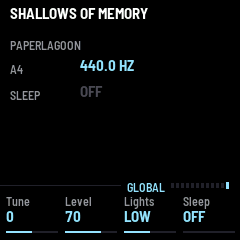
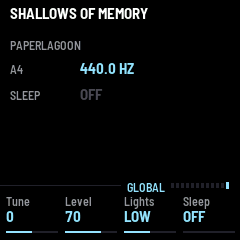
ヘッダーと GLO でも、大小の字のベースラインを揃える

Changed region(s): [[0.3208, 0.2333, 0.5542, 0.3208], [0.3208, 0.35, 0.4375, 0.4375]]

diff --git a/app/app.c b/app/app.c
@@ -717,7 +717,7 @@ static void draw_header(uint32_t now)
         cv_text(x + 8, y, big ? &FONT_B : &FONT_XS, ui.msg[1], C_HI);
     } else if (en_recording) {
         end = cv_text(10, 6, &FONT_B, "REC", C_WHITE);
-        cv_text(end + 8, 10, &FONT_XS, "THE KEYS PLAY; LET GO TO GIVE IT", C_AMB);
+        cv_text(end + 8, 7, &FONT_XS, "THE KEYS PLAY; LET GO TO GIVE IT", C_AMB);
     } else {
         const char *s = en_crossing ? "CROSSING" : 0;   /* (playing or resting: the name says it, white or grey) */
         uint16_t c = en_playing ? C_WHITE : C_GRAY;   /* resting: the name greyed (a long one leaves no room to say) */
@@ -729,7 +729,7 @@ static void draw_header(uint32_t now)
         }
         end = cv_text(10, 6, &FONT_B, en_world_name(set.world), c);
         if (s && (x = 230 - text_w(&FONT_XS, s)) > end + 8)   /* where a long name leaves room */
-            cv_text(x, 10, &FONT_XS, s, C_AMB);
+            cv_text(x, 7, &FONT_XS, s, C_AMB);
     }
     cv_blit(0, 0);
 }
@@ -1359,19 +1359,19 @@ static void draw_glo(uint32_t now)
     t[12 + k] = '.';
     t[13 + k] = (char)('0' + hz10 % 10);
     str_put(t + 14 + k, 8, " HZ");
-    cv_text(80, 22, &FONT_B, t + 12, C_HI);
+    cv_text(80, 25, &FONT_B, t + 12, C_HI);
     cv_text(10, 52, &FONT_XS, "SLEEP", C_GRAY);
     if (!set.par[P_SLEEP]) {
-        cv_text(80, 48, &FONT_B, "OFF", C_DIM);
+        cv_text(80, 51, &FONT_B, "OFF", C_DIM);
     } else {
         int32_t left = (int32_t)set.par[P_SLEEP] * 60 - (int32_t)((now - ui.play_at) / 1000u);
         if (!en_playing) {
-            cv_text(80, 48, &FONT_B, "RESTING", C_DIM);
+            cv_text(80, 51, &FONT_B, "RESTING", C_DIM);
         } else {
             int_text(left > 0 ? (left + 59) / 60 : 0, t);
             k = str_put(t + 12, 12, t);
             str_put(t + 12 + k, 12, " MIN LEFT");
-            cv_text(80, 48, &FONT_B, t + 12, C_HI);
+            cv_text(80, 51, &FONT_B, t + 12, C_HI);
         }
     }
     cv_blit(0, 36);
